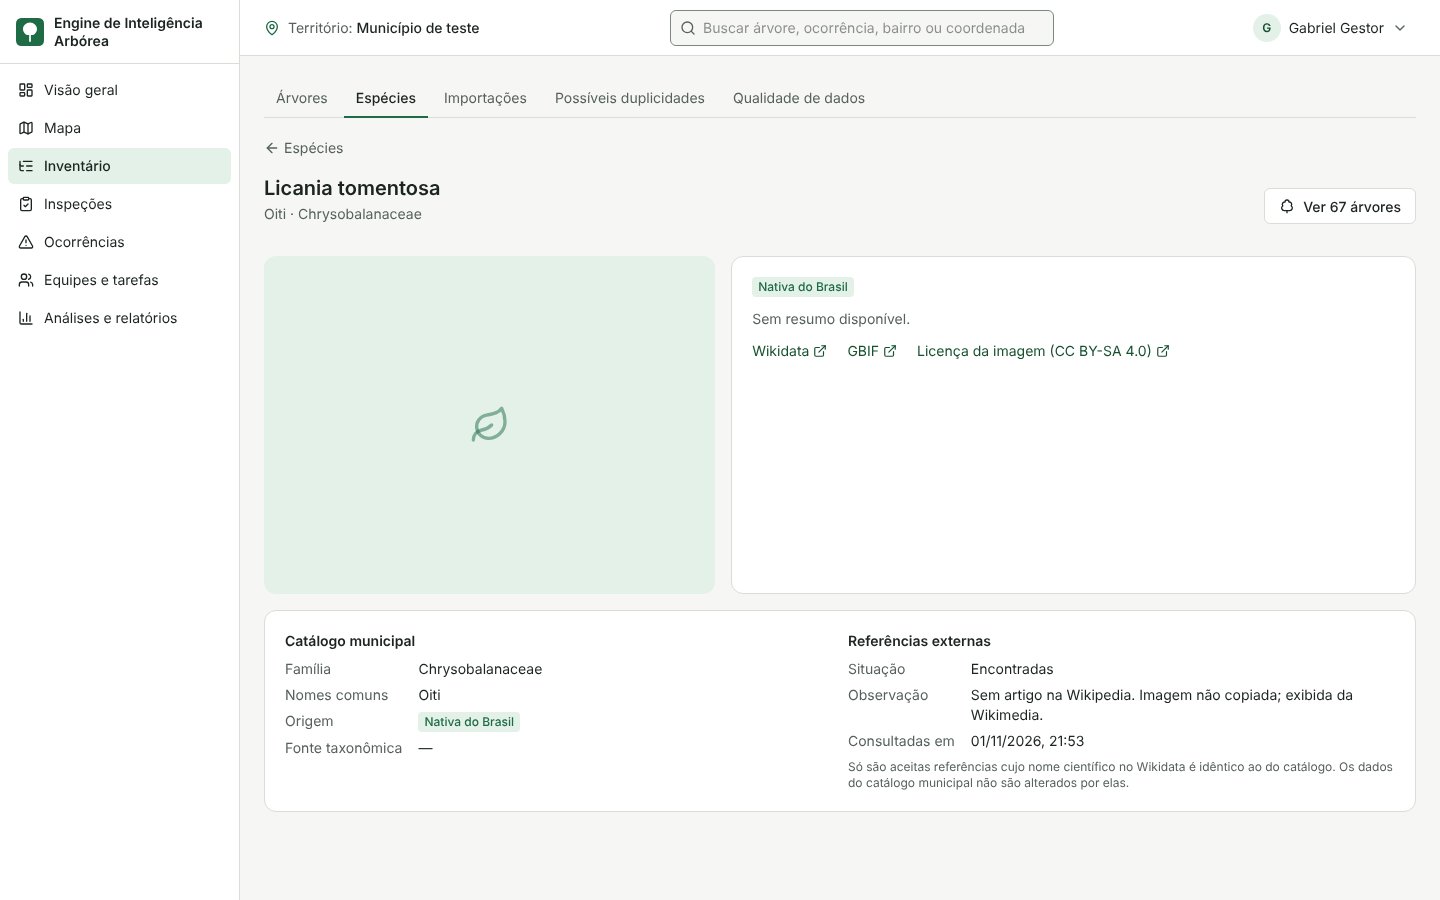
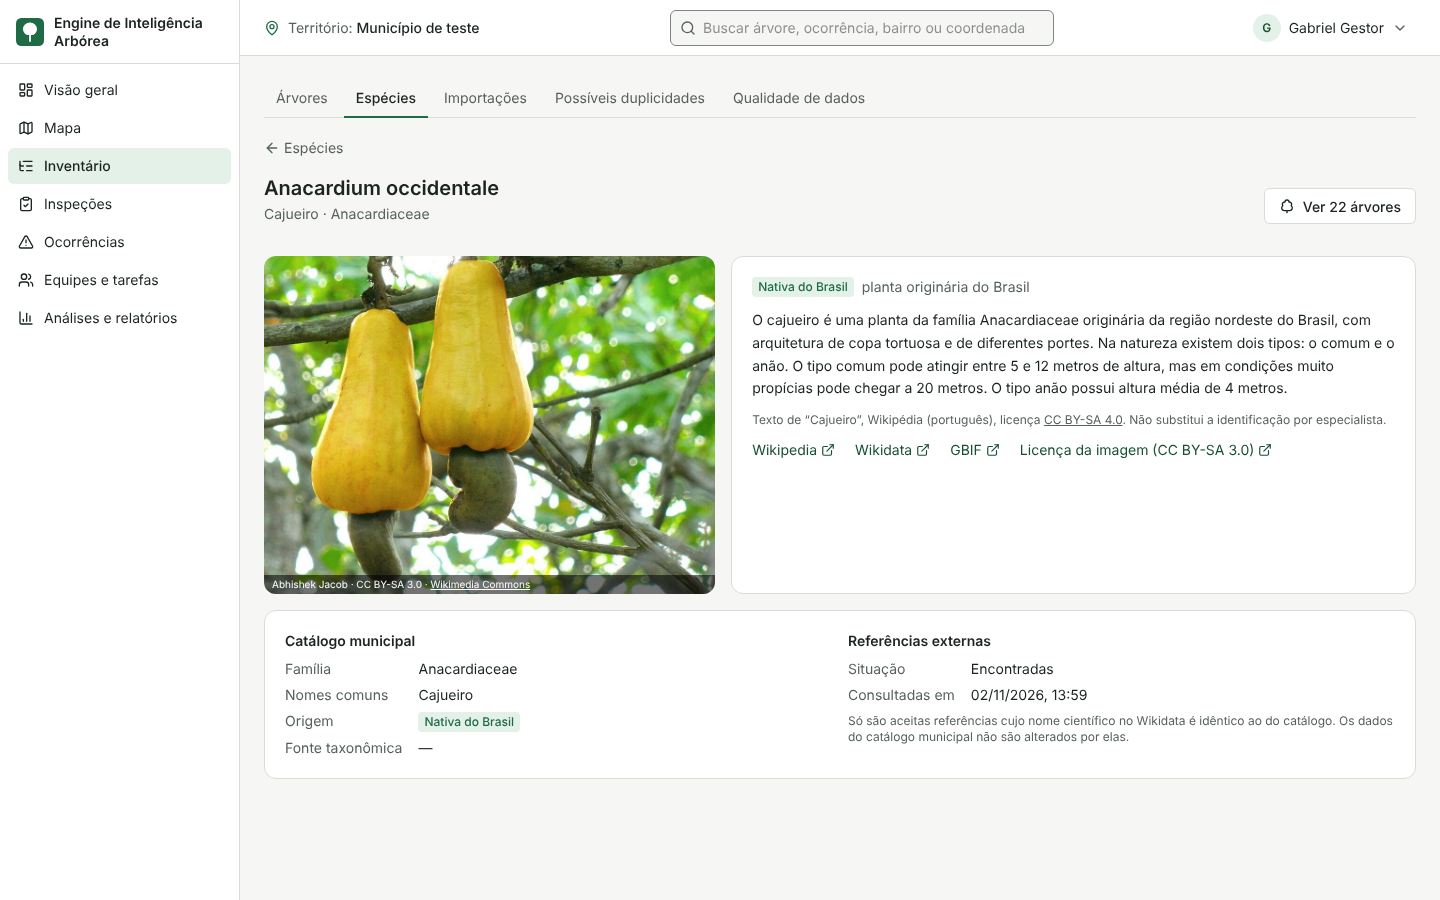
docs(especies): capturas do catálogo com as imagens reais das 8 espécies
Com thumb.wikimedia.org acessível, todas as espécies têm cópia local da
imagem (até 960 px) com autor e licença. A captura de detalhe passa a usar
o cajueiro, que tem artigo na Wikipedia, resumo e foto.

Claude-Session: https://claude.ai/code/session_019QZw3AejLVwVpmC8aN5VGL

diff --git a/scripts/telas/capturar.js b/scripts/telas/capturar.js
@@ -76,7 +76,10 @@ async function tela(p, nome, caminho, { esperar, acao, espera = 1200, inteira = 
     esperar: "Resumo",
     acao: (q) => q.getByRole("tab", { name: /Sugestões de IA/ }).click(),
   });
-  await tela(p, "31-especies", "/inventario/especies", { esperar: "Licania tomentosa" });
+  await tela(p, "31-especies", "/inventario/especies", {
+    esperar: "Licania tomentosa",
+    espera: 2500,
+  });
   await tela(p, "32-especie-detalhe", `/inventario/especies/${ids.especie}`, {
     esperar: "Catálogo municipal",
   });

diff --git a/scripts/telas/ids.py b/scripts/telas/ids.py
@@ -14,4 +14,4 @@ arv = insp.arvore
 foto = ev.arvore if ev else arv
 print(json.dumps({"arvore_foto": str(ev.arvore_id or "") if ev else "", "foto_lon": foto.geom.x, "foto_lat": foto.geom.y, "arvore": str(arv.id), "lon": arv.geom.x, "lat": arv.geom.y,
  "arvore_ia": str(InferenciaIA.objects.first().arvore_id), "inspecao": str(insp.id), "ocorrencia": str(oco.id),
- "alerta": str(Alerta.objects.order_by("numero").first().id), "especie": str(Especie.objects.get(nome_cientifico="Licania tomentosa").id), "usuario": str(Usuario.objects.get(email="clara.campos@itree.local").id)}))
+ "alerta": str(Alerta.objects.order_by("numero").first().id), "especie": str(Especie.objects.get(nome_cientifico="Anacardium occidentale").id), "usuario": str(Usuario.objects.get(email="clara.campos@itree.local").id)}))

diff --git a/docs/melhoria/README.md b/docs/melhoria/README.md
@@ -51,3 +51,4 @@ flowchart LR
 | 2026-11-01 | 1 — Mapa | Mapa base OSM discreto; cor por condição aparente; forma por origem; ícones para ocorrência, tarefa e alerta; agrupamentos com contagem; nomes de bairro; painel e legenda flutuantes; foto no painel da árvore | Células de agrupamento com um registro perdiam as propriedades e apagavam a cor em zoom médio. Só a captura mostrou isso; o teste passou a cobrir. |
 | 2026-11-01 | 2 — Catálogo de espécies | Grade e detalhe de espécies; cartão na ficha da árvore; referências do Wikidata, Wikipedia, Commons e GBIF com autoria, licença e data; comando, tarefa e ação de atualização | Correspondência exata pelo P225 do Wikidata evita "achar parecido". A captura mostrou família e origem vazias na semeadura, corrigidas na mesma iteração. Os dados reais dependem de liberar a rede (M-01b). |
 | 2026-11-02 | 2b — Referências reais | Consulta real ao Wikidata, Wikipedia e Commons. Respeita o limite de taxa (429 + Retry-After). Erro da API com status 200 deixa de ser lido como "não encontrada". Sintaxe correta do haswbstatement. Imagem copiada e reduzida no armazenamento da plataforma. | Os testes com respostas simuladas passavam com uma consulta que, na prática, nunca encontrava nada. Só o uso real revelou isso, e cada erro virou um teste fixando o formato real. |
+| 2026-11-02 | 2c — Imagens das espécies | Com `thumb.wikimedia.org` liberado, as 8 espécies ganharam cópia local (até 960 px) com autor e licença; capturas 31 e 32 refeitas | A Wikimedia limita downloads de originais, mas serve bem miniaturas em tamanho padrão: buscar primeiro a miniatura é o caminho que respeita a política dela. |

diff --git a/docs/melhoria/backlog.md b/docs/melhoria/backlog.md
@@ -10,7 +10,6 @@ quando houver espaço ou decisão.
 
 | # | Prio | Item | Por quê | Pronto quando |
 | --- | --- | --- | --- | --- |
-| M-01b | P1 | Imagens das demais espécies | As referências reais já foram gravadas. Faltam as cópias locais de 6 imagens: o `upload.wikimedia.org` limita downloads de originais (Retry-After de 600 s) para o IP compartilhado deste ambiente, e as miniaturas padrão vêm de `thumb.wikimedia.org`, ainda não liberado. | `thumb.wikimedia.org` liberado; `manage atualizar_referencias_especies --todas`; capturas 31 e 32 com todas as imagens. |
 | M-10 | P2 | Artigo da Wikipedia pelo nome científico quando o item do táxon não tem link | Ex.: o item de *Licania tomentosa* (Q9022290) não tem link para a Wikipedia, embora exista o artigo "Oiti". | Buscar o artigo pelo nome científico e aceitar só se o item do artigo tiver P225 idêntico. Teste com o caso real. |
 | M-02 | P1 | Visão geral no padrão das referências | A tela inicial é plana e sem tendência. | Barra lateral verde-escura, cartões com ícone e variação, gráfico mensal de inspeções e ocorrências, "Alertas e pendências" acionável e mapa resumido do território. Capturas antes e depois. |
 | M-03 | P2 | Mapa: seleção por área (RF-MAPA-022) | Criar tarefas ou exportar a partir de uma região. | Desenhar retângulo ou polígono, listar os itens e enviar para "criar tarefas" ou exportação. |
